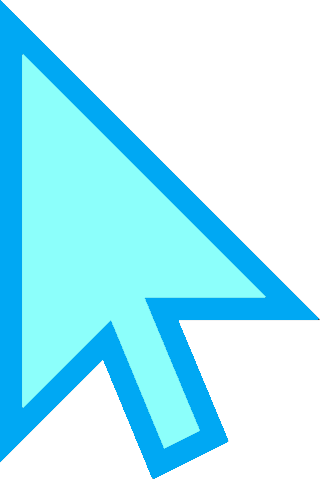
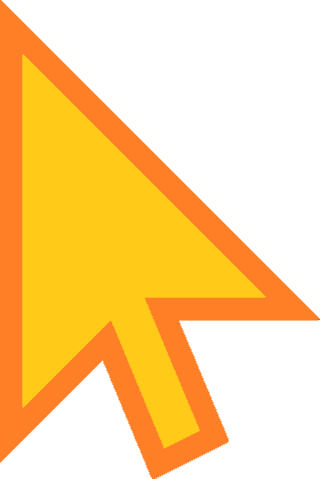
pushing to work remote

diff --git a/styles/styles.css b/styles/styles.css
@@ -15,16 +15,29 @@ body {
     /* max-width: 100vw; */
 }
 
+hr {
+    width: 40vw;
+    /* background-color: orange;
+    color: orange; */
+    border: 1px solid orange;
+    margin-top: 5vh;
+}
+
 footer {
     background-color: #03f0fc;
+}
+
+footer a:hover {
+    cursor: none;
 }
 
 #header {
     width: 100%;
     height: 10%;
     opacity: 85%;
-    background-color: #03f0fc;
+    /* background-color: #03f0fc; */
     text-align: center;
+    /* text-align: left; */
     position: relative;
 } 
 
@@ -32,16 +45,20 @@ footer {
     padding-left: 3%;
     padding-right: 3%;
     text-decoration: none;
-    font-size: 9vh; /* CHANGE THIS */
+    font-size: 4vh; /* CHANGE THIS */
     color: white;
     font-weight: bold;
     font-family: 'Franklin Gothic Medium', 'Arial Narrow', Arial, sans-serif;
     z-index: 0;
+    /* text-decoration: 2px underline white; */
+
 }
 
 .header-link:hover {
-    color: black;
-    background-color: white;
+    /* color: black; */
+    /* background-color: white; */
+    /* filter: brightness(150%); */
+    color: orange;
     cursor: none;
 }
 
@@ -67,13 +84,19 @@ table a {
     animation-name: moveLeft;
     display: flex;
 	flex-direction: row;
-	justify-content: center; 
+	justify-content: center;
+    background: linear-gradient(rgba(0, 0, 0, 0.8),rgba(0, 0, 0, 0.1)), url("../images/icon_large.png");
+    background-repeat: no-repeat;
+    background-position: center;
+    background-size: 30%;
 }
 
-#text-intro img {
-    width: 5vw;
-    height: 5vh;
-}
+/* #text-intro img {
+    position: absolute;
+    size: 30%;
+    filter: brightness(50%);
+    z-index: 0;
+} */
 
 @keyframes moveLeft {
     0% {
@@ -101,7 +124,7 @@ table a {
     flex-direction: column;
     /* flex: 1 1 100%; */
     justify-content: left;
-    border: solid 2px #03f0fc;
+    border: solid 2px orange;
     padding: 0px;
     margin: 0px;
     max-width: 100vw;

diff --git a/index.html b/index.html
@@ -28,14 +28,17 @@
             </a>
         </div>
 
+        <hr>
+
         
 
         <div id="introduction">
             <div id="text-intro">
-                <p id="text-intro">Hello!</p>
-                <!-- Change the image here, to a nicer one -->
-                <!-- <img src="./images/icon.png"> -->
-            </div>    
+                <p>Hello!</p>
+                <!-- <img src="./images/icon_large.png"> -->
+            </div>  
+            
+            <hr>
 
             <p>To whom it may interest, <br>
 
